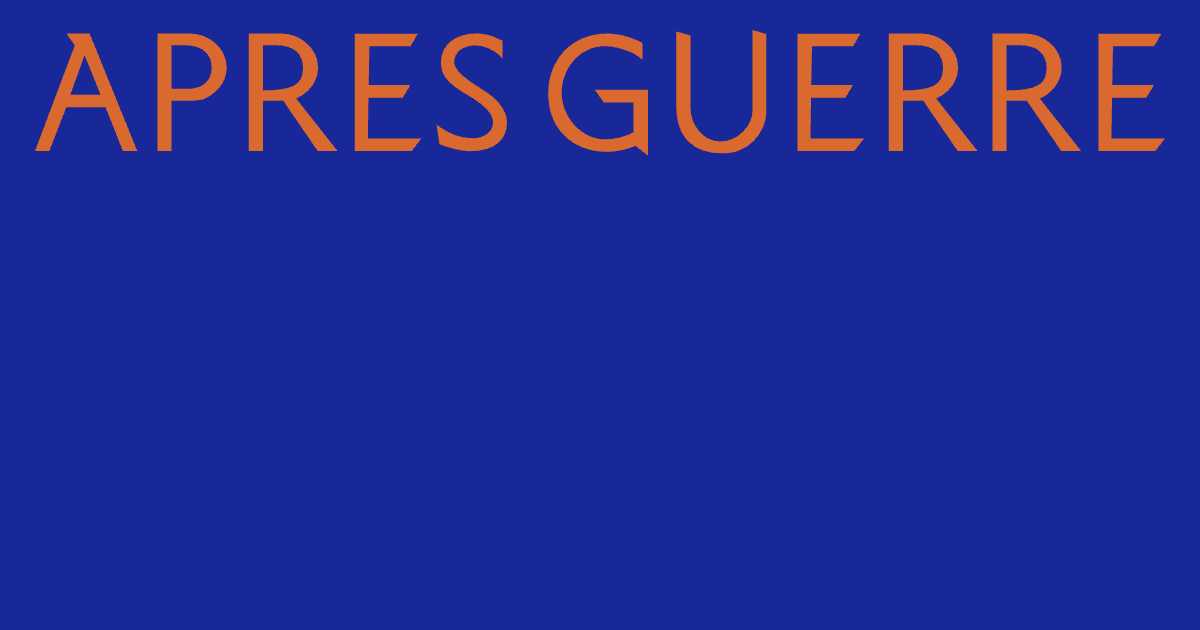
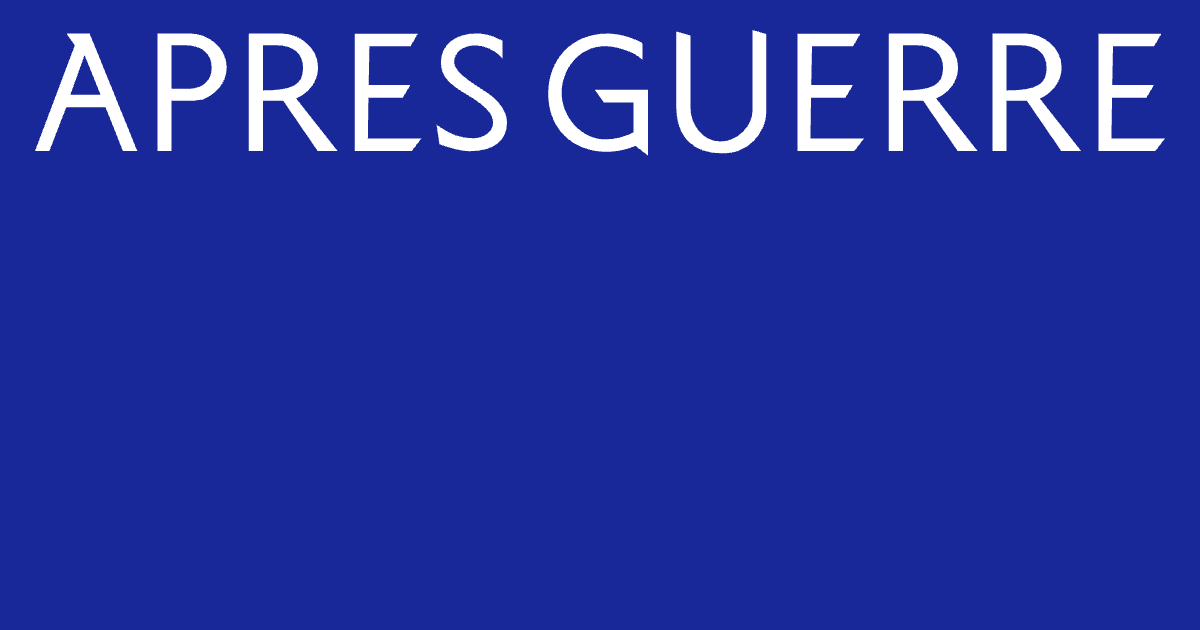
Palette: white, blue and black - text is black, orange and peach are gone
- base.css: --brand-orange, --brand-peach and --color-amber removed. The
  home / white / page themes are the :root defaults (black on white); /about
  is white text on the brand blue. --color-bg-gray is the plain #f6f6f6.
- Text is no longer blue anywhere but the Humorist gallery's typographic
  tiles (graphic specimens): the home lead, the About section, the buttons'
  labels, the /about CTA are black. Blue stays the wordmark and the accents.
- Home: the opening's letters rise in white on the blue ground, then turn
  blue as the ground lifts; the Custom CTA is a white box; the About section
  is white (was the summer amber) with a blue button. /about's wordmark is
  white (was orange).
- favicon.svg, favicon / apple-touch / icon PNGs and og.png recoloured from
  orange to white (anti-aliasing kept); app.html's base.css version bumped.
- Stale comments that named the peach / orange updated.

summerColor.svelte.ts (amber / orange / vermillion) is no longer read by
anything and is left in place.

Changed region(s): [[0.0308, 0.0302, 0.9867, 0.2413], [0.37, 0.0302, 0.4317, 0.1508]]

diff --git a/static/css/base.css b/static/css/base.css
@@ -98,19 +98,16 @@ a {
   /* Sharper signal red — top-page redesign (2026-08) + Header logo. Distinct
      from the older, muted --color-accent above; do not merge the two. */
   --color-signal:    #e0231c;
-  /* New brand color (2026-09) — first use: the About page background. Pairs
-     with black text (--color-text), not white. */
-  --color-amber:     #ffbb32;
 
-  /* Apres Guerre brand palette (2026-10 rebrand, Figma "II-ii"). */
+  /* Apres Guerre brand palette (2026-10 rebrand, Figma "II-ii"): white, blue
+     and black (2026-10-31, at the user's request — the orange, the peach and
+     the amber are gone). */
   /* rgb(25 40 153): the user's own value (2026-10-12, "--currentColorを
      rgb(25 40 153)に変えて") — the colour the wordmark, the header and the
      page text all paint with. The translucent tints below (and Header.svelte's
      BLUE_LUM, which mirrors it for its contrast test) are built from the same
      three numbers. Was #263399. */
   --brand-blue:   rgb(25 40 153);
-  --brand-peach:  #f3d6bc;  /* page background (every page but the home) */
-  --brand-orange: #da6930;  /* the home page's opening screen */
   --brand-hero:   #3e3e3e;  /* home page typeface heroes */
   --brand-paper:  #f1f0ef;  /* text on the heroes */
 
@@ -216,42 +213,16 @@ a {
    :root, so the aliases that read these (--background, --black) pick the
    themed values up.
 
-   Brand blue is the text colour everywhere now (2026-10, at the user's
-   request — "黒の部分は青に変更"); only the ground differs:
-     home  — white (the defaults above)
-     white — white, the typeface detail pages
-     about — brand blue, /about (below; its text is orange, not blue)
-     page  — peach (Figma 3:671), every other page */
-html[data-theme='home'],
-html[data-theme='white'],
-html[data-theme='page'] {
-  --color-text:      var(--brand-blue);
-  /* 0.8: ≥4.5:1 (WCAG AA) on white, the peach and the raised panels below. */
-  --color-text-mute: rgb(25 40 153 / 0.8);
-}
-
-html[data-theme='white'],
-html[data-theme='page'] {
-  --color-line:      rgb(25 40 153 / 0.2);
-}
-
-html[data-theme='page'] {
-  --color-bg:        var(--brand-peach);
-  /* Raised panels (cards, order summary): the peach lifted toward white. */
-  --color-bg-gray:   #f8e6d7;
-}
-
-/* about — the brand blue ground (the home opening's) with the peach the other
-   pages use for their ground as its text colour (2026-10, at the user's
-   request — first "OPのカラーリングで青背景・オレンジテキスト", then "Aboutのテ
-   キストカラーをピンク系の明るめの色、その他ページでつかってるものにして").
-   The translucent tints are built from the peach's own numbers (rgb 243 214
-   188), as the blue ones are from the blue's. Peach on this blue is ~8.4:1
-   (WCAG AA); the wordmark stays the opening's orange (Header.svelte). */
+   The palette is white, blue and black (2026-10-31, at the user's request —
+   "ホワイト・ブルー・ブラックでシンプルにまとめたい", "テキストは基本ブルーにしな
+   い"): text is black, and the blue is the wordmark and the accents (the
+   buttons, the blue grounds). The orange and the peach are gone.
+     home, white, page — the :root defaults above: black on white
+     about — white text on the brand blue ground, /about (below) */
 html[data-theme='about'] {
-  --color-text:      var(--brand-peach);
-  --color-text-mute: rgb(243 214 188 / 0.8);
-  --color-line:      rgb(243 214 188 / 0.3);
+  --color-text:      #ffffff;
+  --color-text-mute: rgb(255 255 255 / 0.8);
+  --color-line:      rgb(255 255 255 / 0.3);
   --color-bg:        var(--brand-blue);
 }
 

diff --git a/src/lib/components/home/AboutSection.svelte b/src/lib/components/home/AboutSection.svelte
@@ -10,21 +10,13 @@
      one) and Location (2026-09, at the user's request, to keep the studio's
      city out of the site's copy as far as reasonably possible).
 
-     Amber ground per base.css's own note on --color-amber ("New brand color
-     (2026-09) — first use: the About page background. Pairs with black text").
+     White ground, black text (2026-10-31, the white / blue / black palette;
+     it was the summer amber).
      Language switching uses the site-wide [data-lang] attribute on <html>, in
      the positive-match form (`[data-lang='fr'] .en { display:none }`), never
      `:not([data-lang='en'])` — that also matches every element with no
      attribute at all, which is most of the document. -->
-<script lang="ts">
-	import { summerColor, summerColorHex } from '$lib/state/summerColor.svelte';
-</script>
-
-<section
-	class="HomeAbout"
-	id="about"
-	style="--summer-color: {summerColorHex(summerColor.current)};"
->
+<section class="HomeAbout" id="about">
 	<div class="HomeAbout__inner">
 		<p class="HomeAbout__label">2026</p>
 
@@ -62,9 +54,7 @@
 <style>
 	.HomeAbout {
 		min-height: 100svh;
-		/* Driven by the debug switcher (2026-09) — falls back to the amber
-		   token if --summer-color somehow isn't set. */
-		background: var(--summer-color, var(--color-amber, #ffbb32));
+		background: var(--color-bg);
 		display: flex;
 		align-items: center;
 		padding-block: clamp(96px, 12vh, 160px);
@@ -72,12 +62,11 @@
 
 	/* base.css §7 re-asserts `color: var(--color-text)` on div/p/a/dt/dd
 	   INDIVIDUALLY, so a plain `color` on this section would never reach them.
-	   Brand blue now (2026-10, at the user's request — "黒の部分は青に変更";
-	   was black, which is what the amber was documented to pair with) — the
-	   rule exists so the section owns its own colour instead of inheriting
+	   Black on the white ground (2026-10-31: text is not blue) — the rule
+	   exists so the section owns its own colour instead of inheriting
 	   whatever the token happens to be. */
 	.HomeAbout :global(*) {
-		color: var(--brand-blue);
+		color: var(--color-text);
 	}
 
 	.HomeAbout__inner {

diff --git a/src/lib/theme.ts b/src/lib/theme.ts
@@ -2,15 +2,15 @@
 // Shared by hooks.server.ts (first paint) and +layout.svelte (client-side
 // navigation), so the two can't disagree.
 //
-//   home  — the home page: white, brand blue text.
+// The palette is white, blue and black (2026-10-31, at the user's request):
+// text is black, blue is the wordmark and the accents.
+//
+//   home  — the home page: black on white.
 //   white — the typeface detail pages (/fonts/<slug>): the same, but a page
-//           of their own rather than the home page's (2026-10, at the
-//           user's request — "白背景で問題ない").
-//   about — /about, in the home opening's own colours: brand orange text on
-//           the brand blue ground (2026-10, at the user's request — "Aboutペ
-//           ージのカラーリングを、OPのカラーリングで青背景・オレンジテキスト
-//           にして").
-//   page  — everything else: brand blue on peach.
+//           of their own rather than the home page's.
+//   about — /about: white text on the brand blue ground, the home opening's
+//           own colours.
+//   page  — everything else: black on white.
 export type Theme = 'home' | 'white' | 'about' | 'page';
 
 const TYPEFACE_PAGE = /^\/fonts\/[^/]+\/?$/;
@@ -29,5 +29,5 @@ export const THEME_BG_TOKEN: Record<Theme, string> = {
 	home: '--white',
 	white: '--white',
 	about: '--brand-blue',
-	page: '--brand-peach'
+	page: '--white'
 };

diff --git a/src/routes/about/+page.svelte b/src/routes/about/+page.svelte
@@ -10,10 +10,10 @@
 
      Both blocks share one ground (2026-09, "その下も全体的に背景色ありに
      して") so the whole page reads as one continuous coloured page — the
-     "about" page theme's own orange on blue since 2026-10 (the home
-     opening's colours, at the user's request — "Aboutページのカラーリング
-     を、OPのカラーリングで青背景・オレンジテキストにして"; it was blue on
-     peach, and the summer amber with black text before that), so the
+     "about" page theme's own white on blue since 2026-10-31 (the home
+     opening's colours, minus the orange — the palette is white, blue and
+     black; it was orange on blue, before that blue on peach, and the summer
+     amber with black text before that), so the
      Header, painted in the page colour, sits on it seamlessly.
 
      No arrow-icon link here any more (2026-09, at the user's request —
@@ -480,10 +480,10 @@
 		opacity: 0.8;
 	}
 
-	/* The box is the text colour (orange here), so its label can't be white:
-	   it takes the ground's blue. */
+	/* The box is the text colour (white here), so its label can't be white:
+	   black (2026-10-31: text is not blue). */
 	:global(html[data-theme='about']) .About__cta {
-		color: var(--color-bg);
+		color: #000000;
 	}
 
 	@media (max-width: 767.98px) {

diff --git a/src/lib/components/home/HomeTop.svelte b/src/lib/components/home/HomeTop.svelte
@@ -1,7 +1,7 @@
 <!-- Home page top (2026-10 redesign, Figma "II-ii"): the opening (1:635 PC,
      7:782 SP), then the resting top (175:178 PC, 7:874 SP).
 
-     Opening: the wordmark's letters, in the brand orange, rise into place
+     Opening: the wordmark's letters, in white, rise into place
      left to right on the brand-blue ground (Figma 1:635; colours swapped
      from the first cut, 2026-10, at the user's request — so the logo turns
      blue at the very moment the ground turns white). Then the ground lifts
@@ -268,7 +268,7 @@
 	}
 
 	/* Only the ground fades (to transparent, so the page and the rising hero
-	   show through); the letters are not faded but recoloured, orange to the
+	   show through); the letters are not faded but recoloured, white to the
 	   Header's blue, over the same beat. */
 	@keyframes opening-lift {
 		to {
@@ -278,7 +278,7 @@
 	}
 
 	.Opening :global(.Logo__word) {
-		color: var(--brand-orange);
+		color: var(--white);
 		animation: logo-to-blue var(--lift-dur) ease var(--lift-at) forwards;
 	}
 
@@ -317,7 +317,7 @@
 		font-variation-settings: 'wght' 400;
 		line-height: 1.4;
 		letter-spacing: 0;
-		color: var(--brand-blue);
+		color: var(--color-text);
 		animation: lead-in var(--lead-dur) ease var(--lead-at) backwards;
 	}
 

diff --git a/src/lib/components/Header.svelte b/src/lib/components/Header.svelte
@@ -410,18 +410,17 @@
 
 	/* /about (base.css, html[data-theme='about']): its ground is the brand
 	   blue, which the probe reads as dark — but the nav and Cart there take
-	   the page's own text colour (the peach), not the paper white a dark
-	   surface would give them, and the wordmark keeps the brand orange it has
-	   in the opening. */
+	   the page's own text colour (white), and the wordmark is white too
+	   (2026-10-31; it was the opening's orange). */
 	:global(html[data-theme='about']) .Header,
 	:global(html[data-theme='about']) .Header.is-on-dark {
 		color: var(--color-text);
 	}
 
 	/* The wordmark's words inherit their colour (the .Header * { color:
-	   inherit } above), so it is the link around them that carries the orange. */
+	   inherit } above), so it is the link around them that carries the white. */
 	:global(html[data-theme='about']) .Header__logo {
-		color: var(--brand-orange);
+		color: var(--white);
 	}
 
 	/* The nav, Cart and the menu toggle are black (2026-10-31, at the user's
@@ -753,7 +752,7 @@
 	}
 
 	/* Black like the nav; on /about the panel is the brand blue, so the page's
-	   own text colour (the peach) there. */
+	   own text colour (white) there. */
 	.MenuPanel :global(*) {
 		color: #000000;
 	}

diff --git a/src/routes/+page.svelte b/src/routes/+page.svelte
@@ -527,8 +527,9 @@
 
 	/* Solid, square-cornered box link (2026-09, at the user's request —
 	   "Top AboutとCustomセクションのボタンもContact同様ボックスリンクに変更")
-	   — replaces the Arrow.svelte + text pattern. Brand blue on the brand
-	   orange (2026-10, at the user's request — was white on the signal red). */
+	   — replaces the Arrow.svelte + text pattern. Black on white (2026-10-31,
+	   the white / blue / black palette; it was blue on the brand orange, and
+	   white on the signal red before that). */
 	.Home__customCopy .Custom__cta {
 		display: inline-flex;
 		align-items: center;
@@ -538,8 +539,8 @@
 		font-size: 15px;
 		font-weight: 500;
 		font-variation-settings: 'wght' 500;
-		color: var(--brand-blue);
-		background: var(--brand-orange);
+		color: #000000;
+		background: #ffffff;
 		border: 0;
 		border-radius: 0;
 		text-decoration: none;
@@ -623,7 +624,7 @@
 		font-size: 15px;
 		font-weight: 500;
 		font-variation-settings: 'wght' 500;
-		color: var(--brand-blue);
+		color: #000000;
 		background: #ffffff;
 		border: 0;
 		border-radius: 0;

diff --git a/src/app.html b/src/app.html
@@ -38,7 +38,7 @@
 		</script>
 		<!-- Per-page <meta name="description"> comes from each route's svelte:head -->
 		<!-- Global design tokens and reset (bump ?v= whenever base.css changes) -->
-		<link rel="stylesheet" href="%sveltekit.assets%/css/base.css?v=20261031a" />
+		<link rel="stylesheet" href="%sveltekit.assets%/css/base.css?v=20261031b" />
 		<!-- Norma VF — latest export (version in the filename). Renamed from
 		     "Steiner"/"Asger", then "Atom", 2026-08-30/31 (product renames);
 		     filename/version scheme unchanged. Declared under two family names
@@ -148,7 +148,8 @@
 		</style>
 
 		<!-- Icons — the A of the Apres Guerre wordmark ($lib/data/logo.ts) in
-		     the brand blue on the home page's opening orange (2026-10). SVG
+		     white on the brand blue, as the home page's opening shows it (2026-10-31;
+		     it was orange). SVG
 		     first (scalable, and what modern browsers pick), PNG as the
 		     fallback for browsers that don't support SVG favicons. -->
 		<link rel="icon" href="%sveltekit.assets%/favicon.svg" type="image/svg+xml" />

diff --git a/src/lib/components/ContactForm.svelte b/src/lib/components/ContactForm.svelte
@@ -202,15 +202,14 @@
 </div>
 
 <style>
-	/* Light tone follows the page theme (blue on peach since the 2026-10
-	   redesign; black on white wherever the theme is the default). */
+	/* Light tone follows the page theme (black on white). */
 	.ContactForm {
 		--field-line: color-mix(in srgb, var(--color-text) 35%, transparent);
 		--field-fg: var(--color-text);
 		--submit-bg: var(--color-text);
 		--submit-fg: #ffffff;
-		/* The signal red is 3.4:1 on the peach page — a deeper red of the
-		   same hue clears AA (4.7:1 on peach, 5.4:1 on white). */
+		/* The signal red is under AA on white at this size — a deeper red of
+		   the same hue clears it (5.4:1). */
 		--error-fg: #b3261e;
 	}
 

diff --git a/src/routes/fonts/[slug]/+page.svelte b/src/routes/fonts/[slug]/+page.svelte
@@ -427,8 +427,8 @@
 		padding: 0 0 40px;
 		/* Black text on this page (2026-10, at the user's request — "各書体の
 		   ページ情報やタイプテスターなどは、ブラックテキストに"). The site
-		   chrome (Header, Footer, the masthead wordmark) stays brand blue; the
-		   About and Licensing pages keep their playful blue-on-peach. These
+		   chrome (the wordmark) stays brand blue. (Since 2026-10-31 every page's
+		   text is black, so this scope no longer differs from the theme.) These
 		   are the tokens the page and its components read, so one scope
 		   covers the intro, the Type Tester, the glyph set and the rest. */
 		--color-text: #000000;

diff --git a/src/lib/components/PageStack.svelte b/src/lib/components/PageStack.svelte
@@ -7,7 +7,7 @@
      section's own heading lives inline at the top of its own body.
 
      Laid out per Figma 3:671 (2026-10 Apres Guerre redesign), the same as
-     PageSection.svelte's pinned layout: blue on peach, the title set large
+     PageSection.svelte's pinned layout: black on white, the title set large
      (Ango Regular, 120px at 1440) pinned to the bottom-left of the screen,
      the body running down the right-hand column from x=584 (28px headings,
      16px/1.4 text). SP stacks title, sub-heading and body and pins nothing.

diff --git a/src/hooks.server.ts b/src/hooks.server.ts
@@ -25,7 +25,7 @@
 //    reused, but only after a cheap revalidation round-trip, never blindly.
 //
 // Also: the page theme (2026-10 Apres Guerre redesign). app.html ships
-// data-theme="page" (blue on peach); the home page is "home" and the
+// data-theme="page" (black on white); the home page is "home" and the
 // typeface detail pages "white" (see $lib/theme.ts), swapped in here so the
 // very first paint is already the right colour. +layout.svelte keeps the
 // attribute in sync on client-side navigation.
